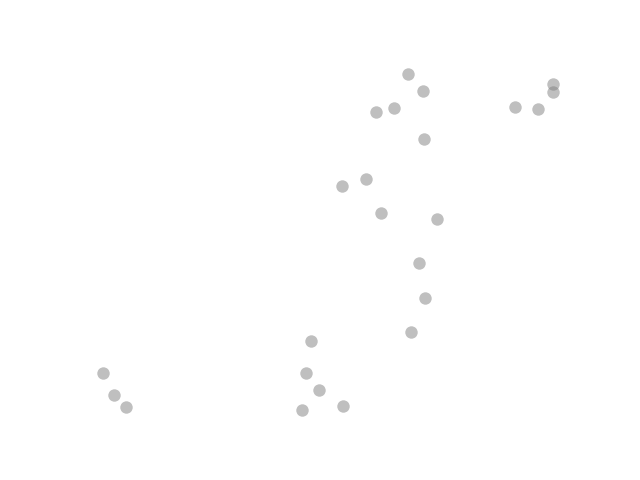
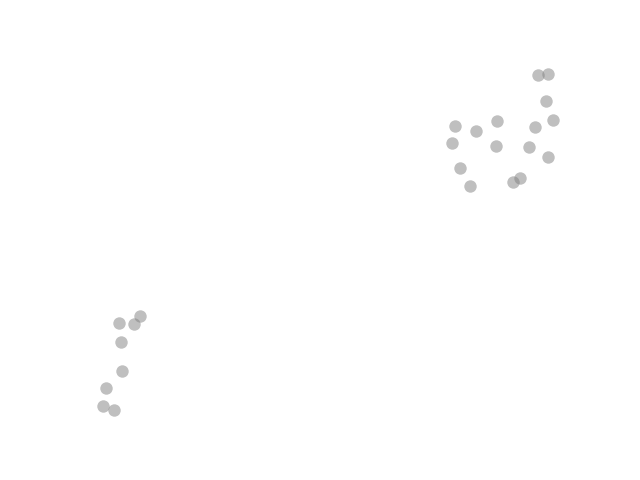
recalculate dimred using the updated descriptor list

diff --git a/workplace/dimred/dimred.py b/workplace/dimred/dimred.py
@@ -1,19 +1,19 @@
 from sklearn.metrics import pairwise_distances
 from chemdes.tasks.preprocess import load_molecular_descriptors, preprocess_descriptor_df
-from chemdes.tasks.dimred import umap_run
+from chemdes.tasks.dimred import umap_run, tune_umap
 from chemdes.utils import json_dump
 
 _distance_metric = "manhattan"
 
 if __name__ == '__main__':
-    molecules, df = load_molecular_descriptors("../data/molecular_descriptors_2022_03_09.csv")
-    data_df = preprocess_descriptor_df(df)
+    molecules, df = load_molecular_descriptors("../ligand_descriptors/molecular_descriptors_2022_03_21.csv")
+    data_df = preprocess_descriptor_df(df, scale=True, vthreshould=True)
 
     distance_matrix = pairwise_distances(data_df.values, metric=_distance_metric)
 
-    # tune_umap(distance_matrix, wdir="./")  # nn5 md0.1 looks ok
+    tune_umap(distance_matrix, wdir="./")  # nn7 md0.2 looks ok
 
-    data_2d = umap_run(distance_matrix, nn=5, md=0.1, wdir="./")
+    data_2d = umap_run(distance_matrix, nn=7, md=0.2, wdir="./")
 
     dimred_data = {
         "dmat": distance_matrix,

diff --git a/workplace/dimred/dimred_vis.py b/workplace/dimred/dimred_vis.py
@@ -2,8 +2,8 @@ import base64
 from io import BytesIO
 
 import dash
-import dash_core_components as dcc
-import dash_html_components as html
+from dash import dcc
+from dash import html
 import plotly.graph_objs as go
 from dash.dependencies import Input, Output
 from rdkit.Chem.Draw import MolsToGridImage
